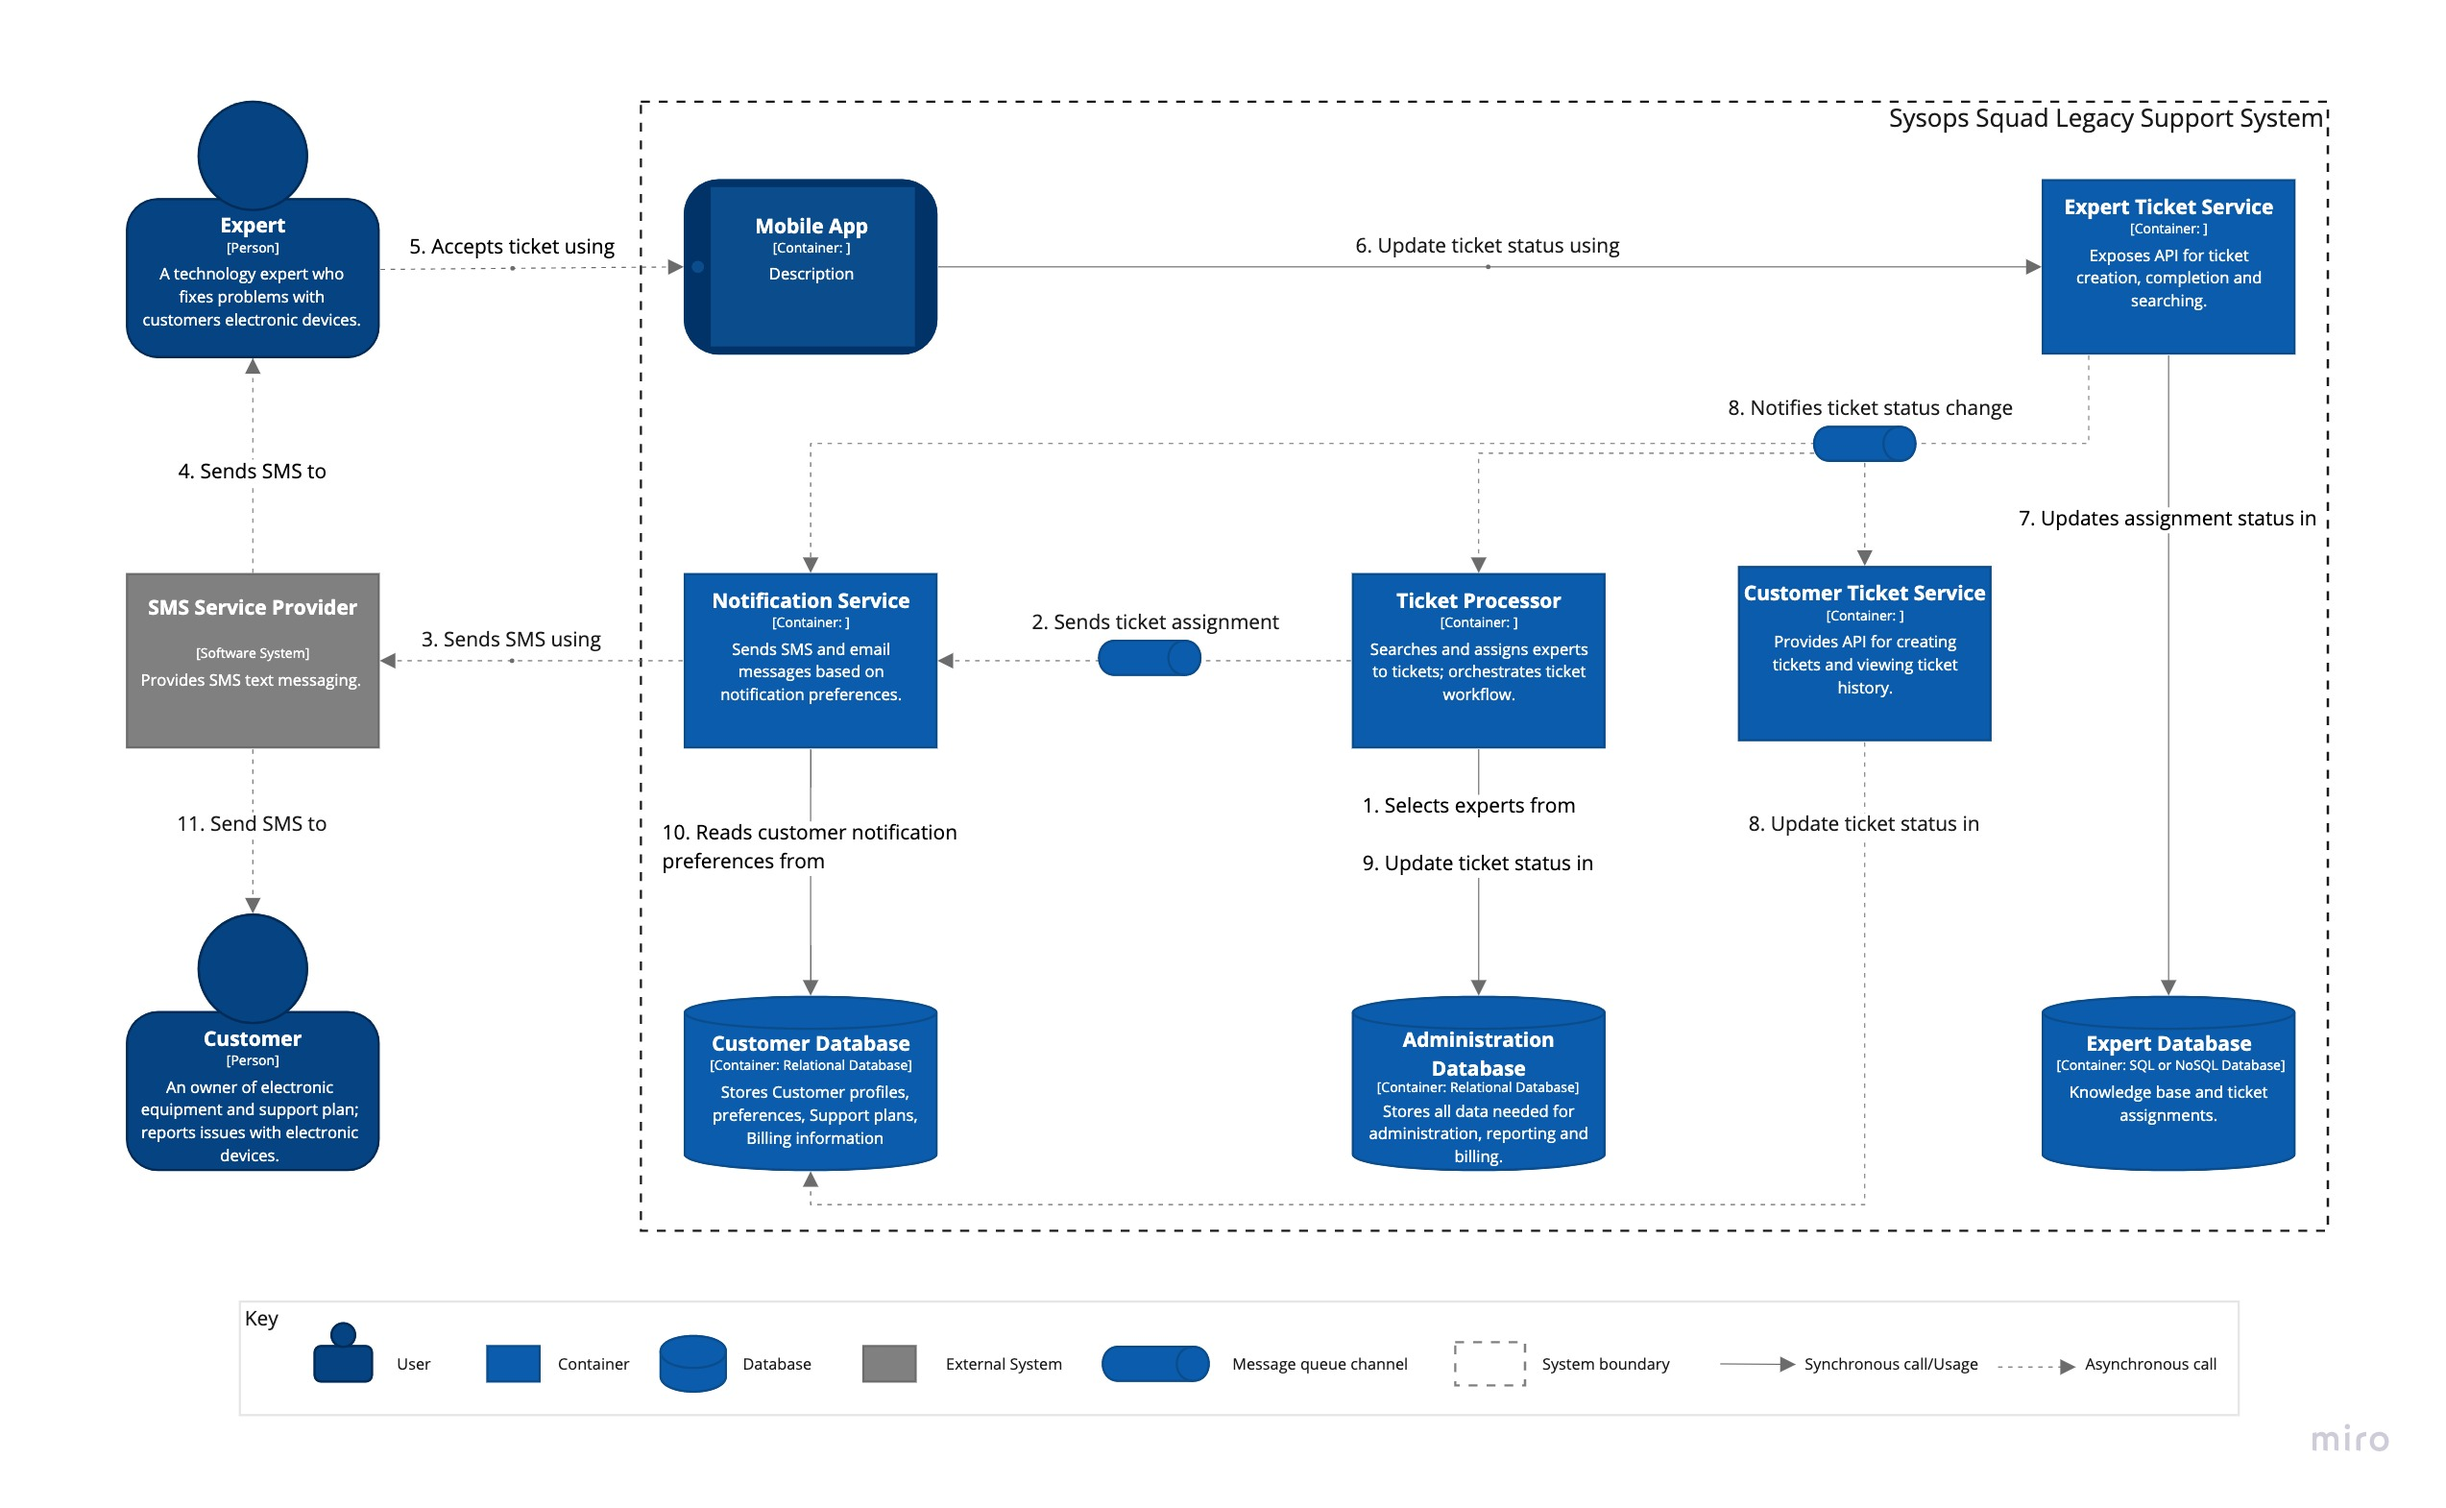
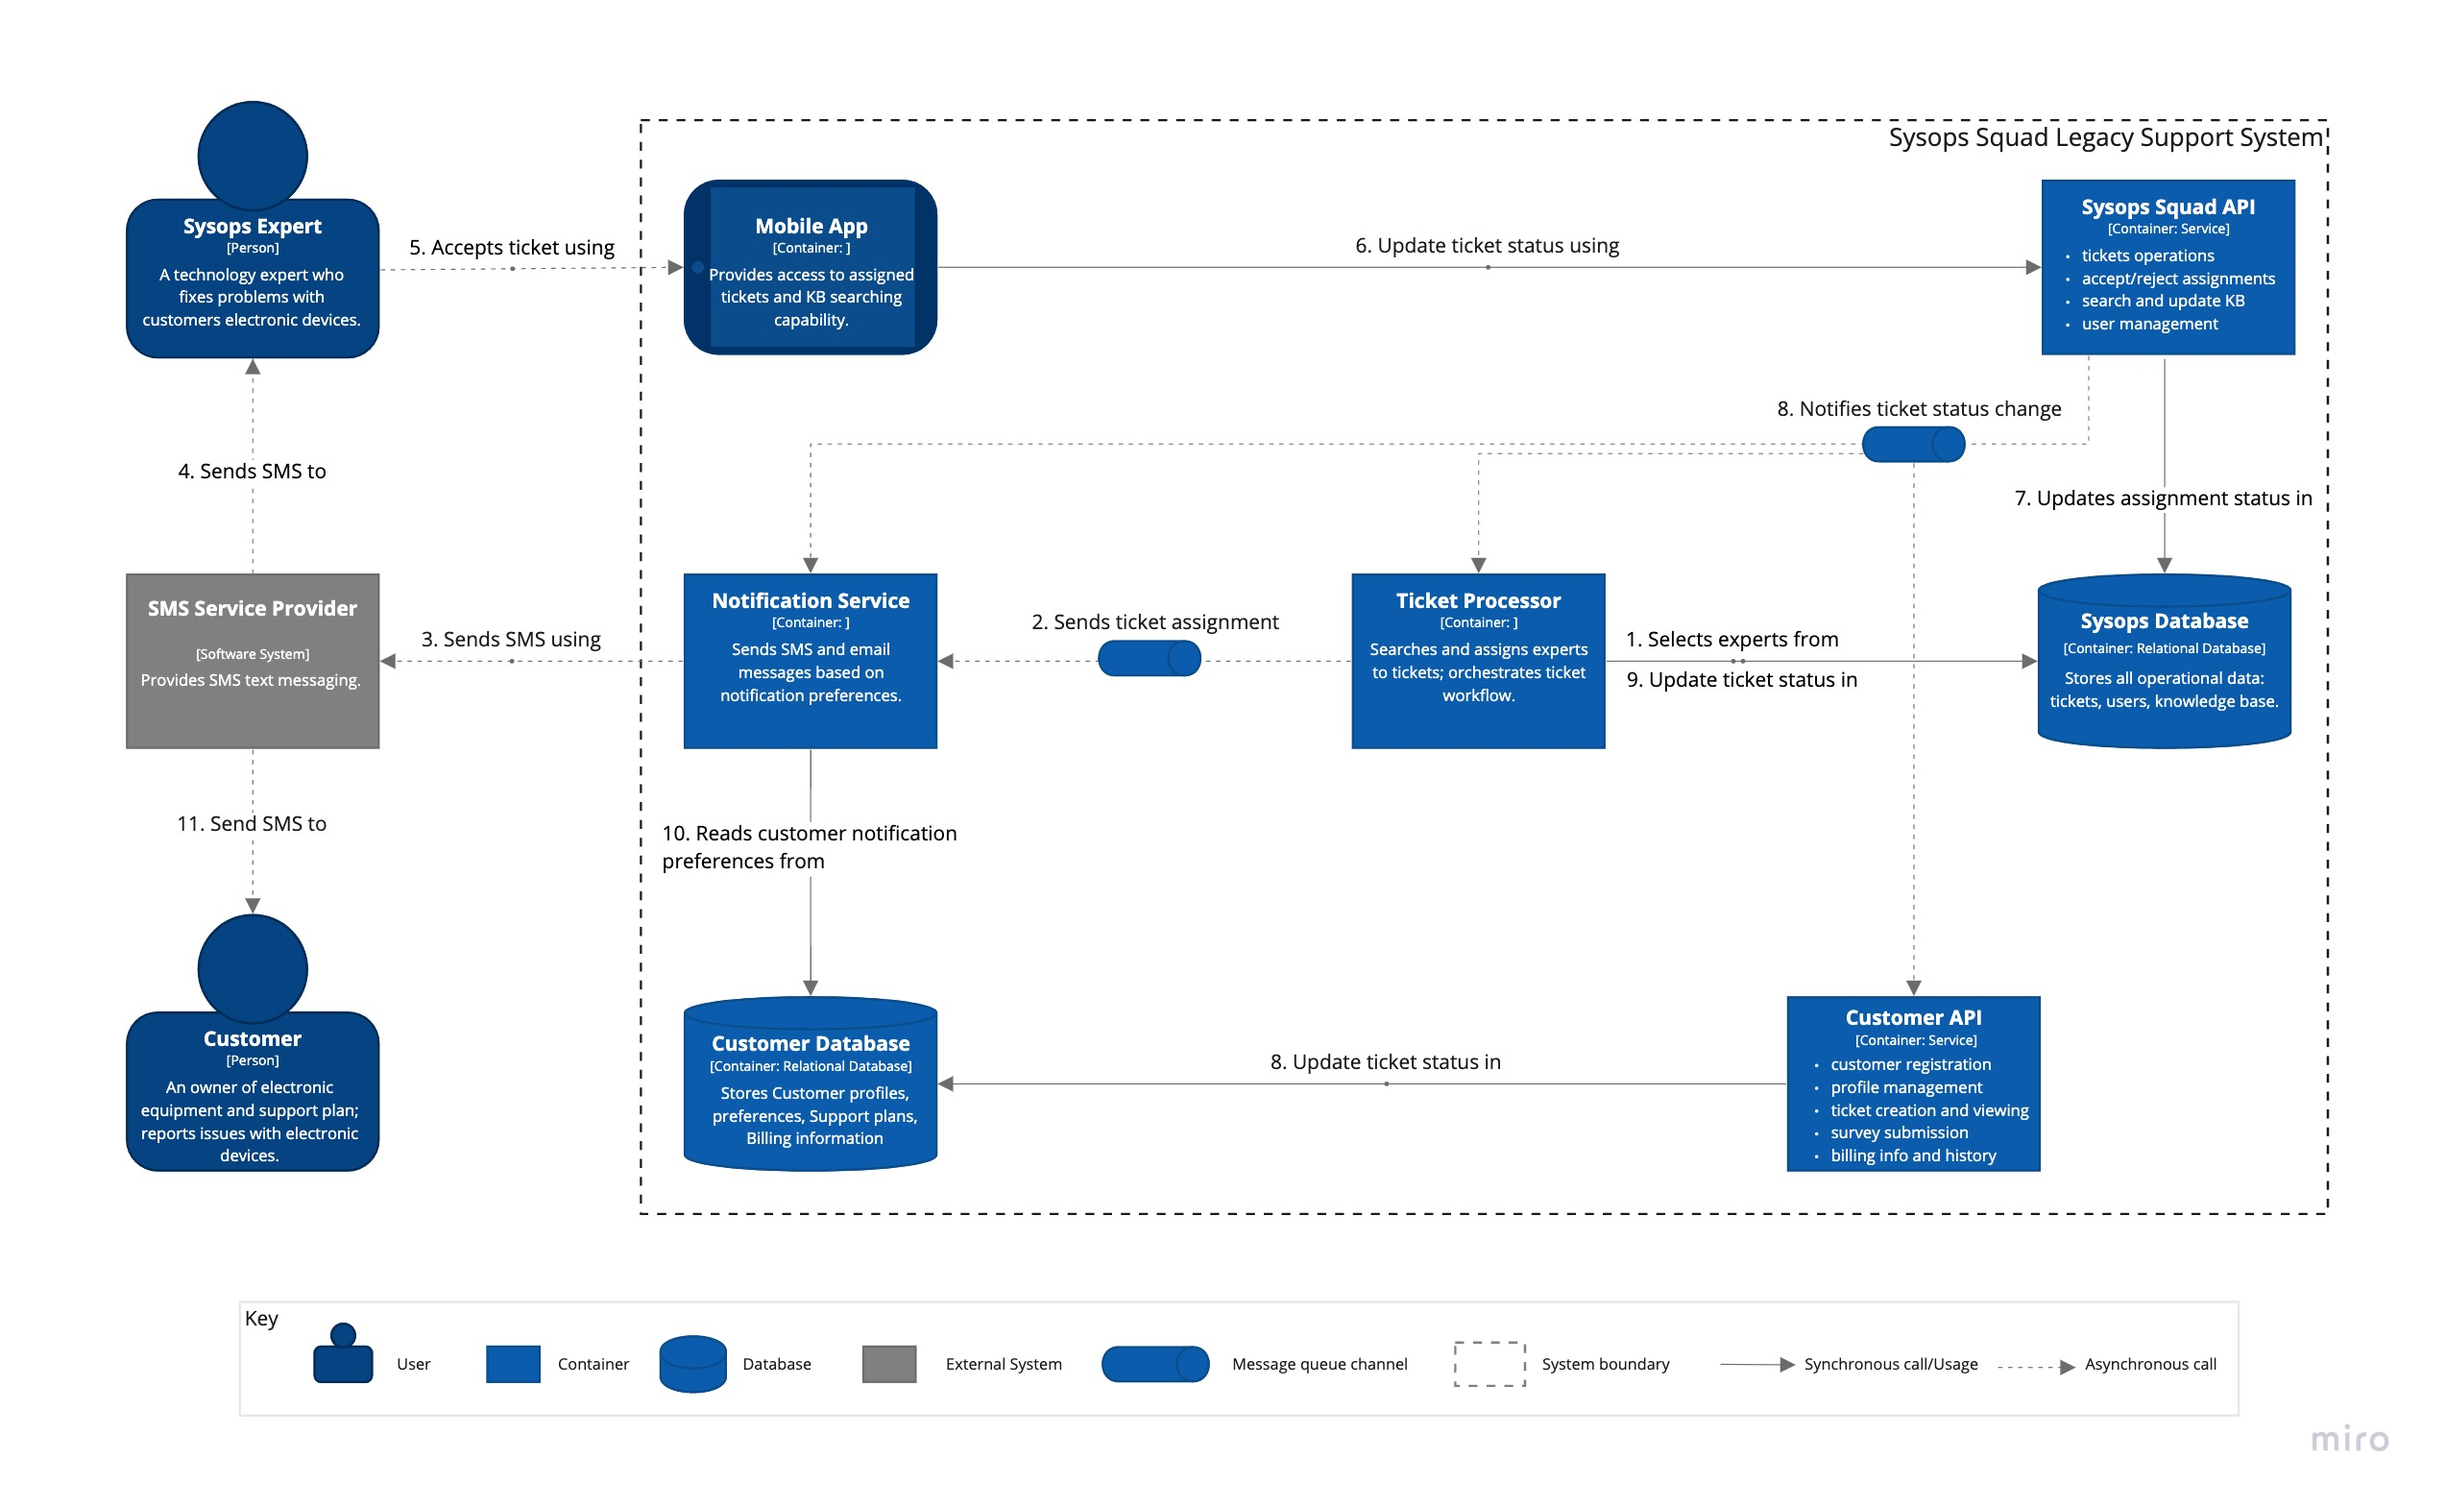
Rework architecture for more coarse-grained components

diff --git a/README.md b/README.md
@@ -52,26 +52,35 @@ The architecture is build around three main domains that have been discovered du
 
 The architectural style used here as the bases is Service-based with event-driven elements (see [ADR-1](ADR/ADR-1-service-based.md) and [ADR-2](ADR/ADR-2-event-driven-broker.md) for details).
 
-The high-level idea is illustrated on the following diagram. Note that Notification service is shared by all domains. More detailed diagram of each domain containers follows.
+![Containers](images/containers.jpg "Containers")
 
-![Containers Overview](images/containers.jpg "Containers Overview")
+### Components
+This section provides component decomposition of some key containers of the system.
 
-Note that the diagram is focused on domain concerns, so cross-cutting concerns such as logging, authentication, load balancing etc, are not present to make the picture more clear.
+#### Customer API
+The following diagram illustrates components of the Customer API.
 
-#### Customer domain containers
-The following diagram describes customer-facing containers in more detail.
+![Customer API](images/component-customer-api.jpg "Customer API")
 
-![Customer Containers](images/customer-containers.jpg "Customer Containers")
+#### Sysops Squad API
+The following diagram describes components of the Sysops Squad API.
 
-#### Expert domain containers
-The following diagram describes expert containers in more detail.
+![Sysops Squad API](images/component-squad-api.jpg "Sysops Squad API")
 
-![Expert Containers](images/expert-containers.jpg "Expert Containers")
+#### Administration API
+The following diagram describes components of the Administration API.
 
-#### Administration domain containers
-The following diagram describes administration containers in more detail.
+![Admin Component](images/component-admin-api.jpg "Admin Components")
 
-![Admin Containers](images/admin-containers.jpg "Admin Containers")
+#### Ticket Processor
+The following diagram describes components of the Ticket Processor.
+
+![Ticket Processor](images/component-ticket-processor.jpg "Ticket Processor")
+
+#### Notification Service
+The following diagram describes components of the Notification Service.
+
+![Notification Service](images/component-notification.jpg "Notification Service")
 
 ### Sequences
 
